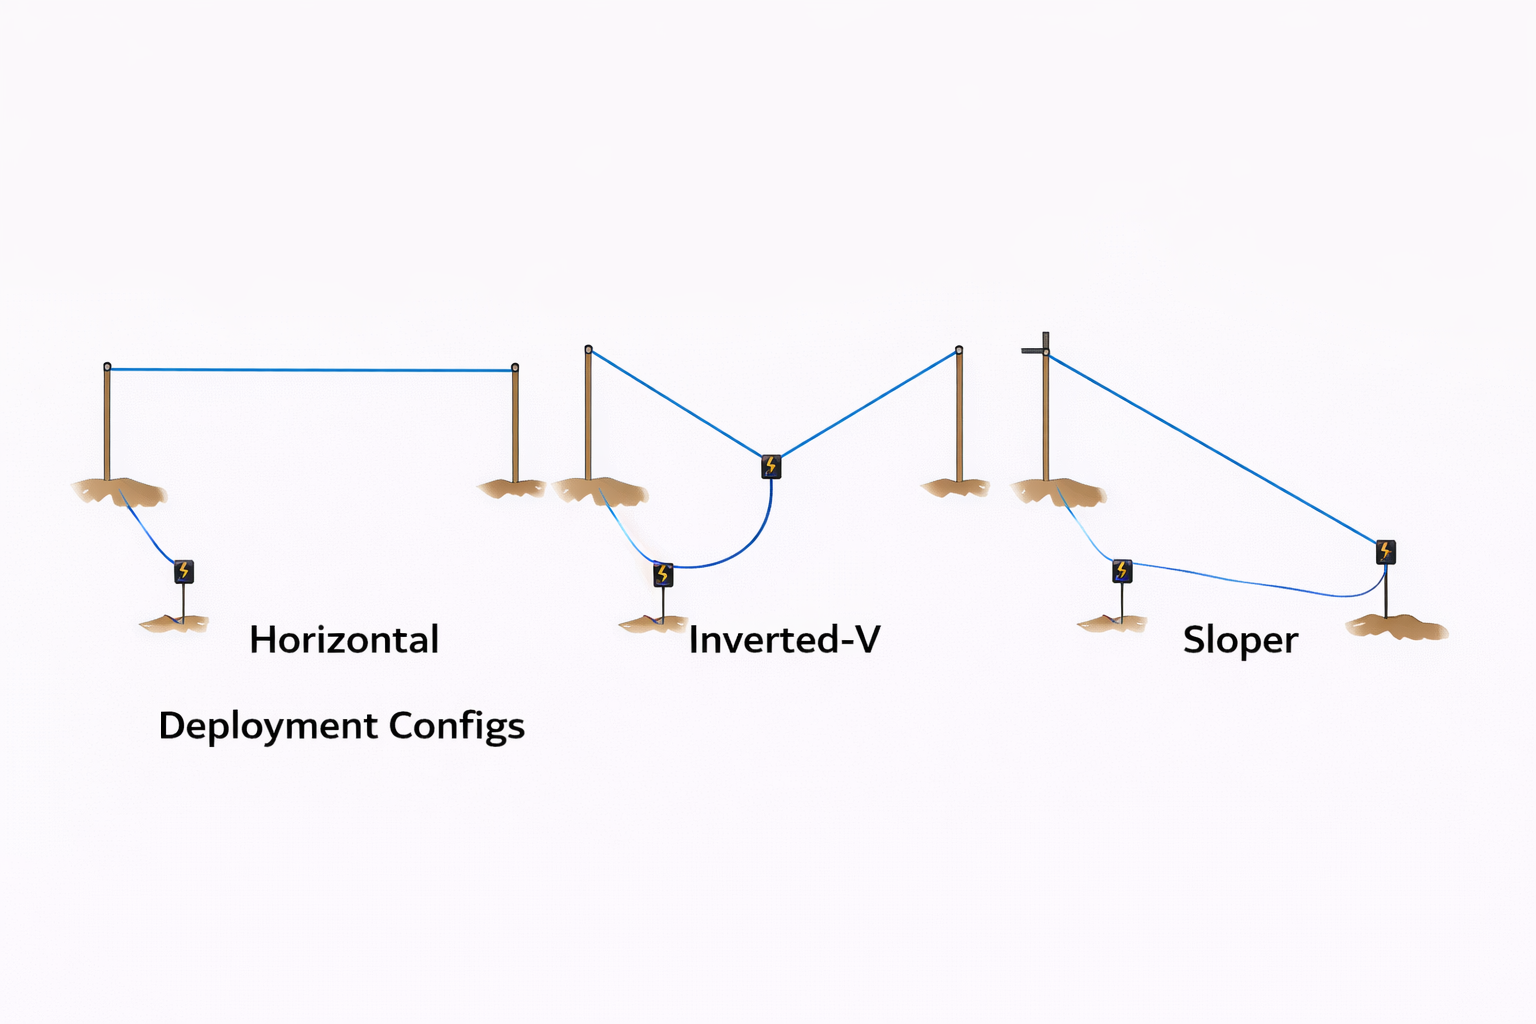
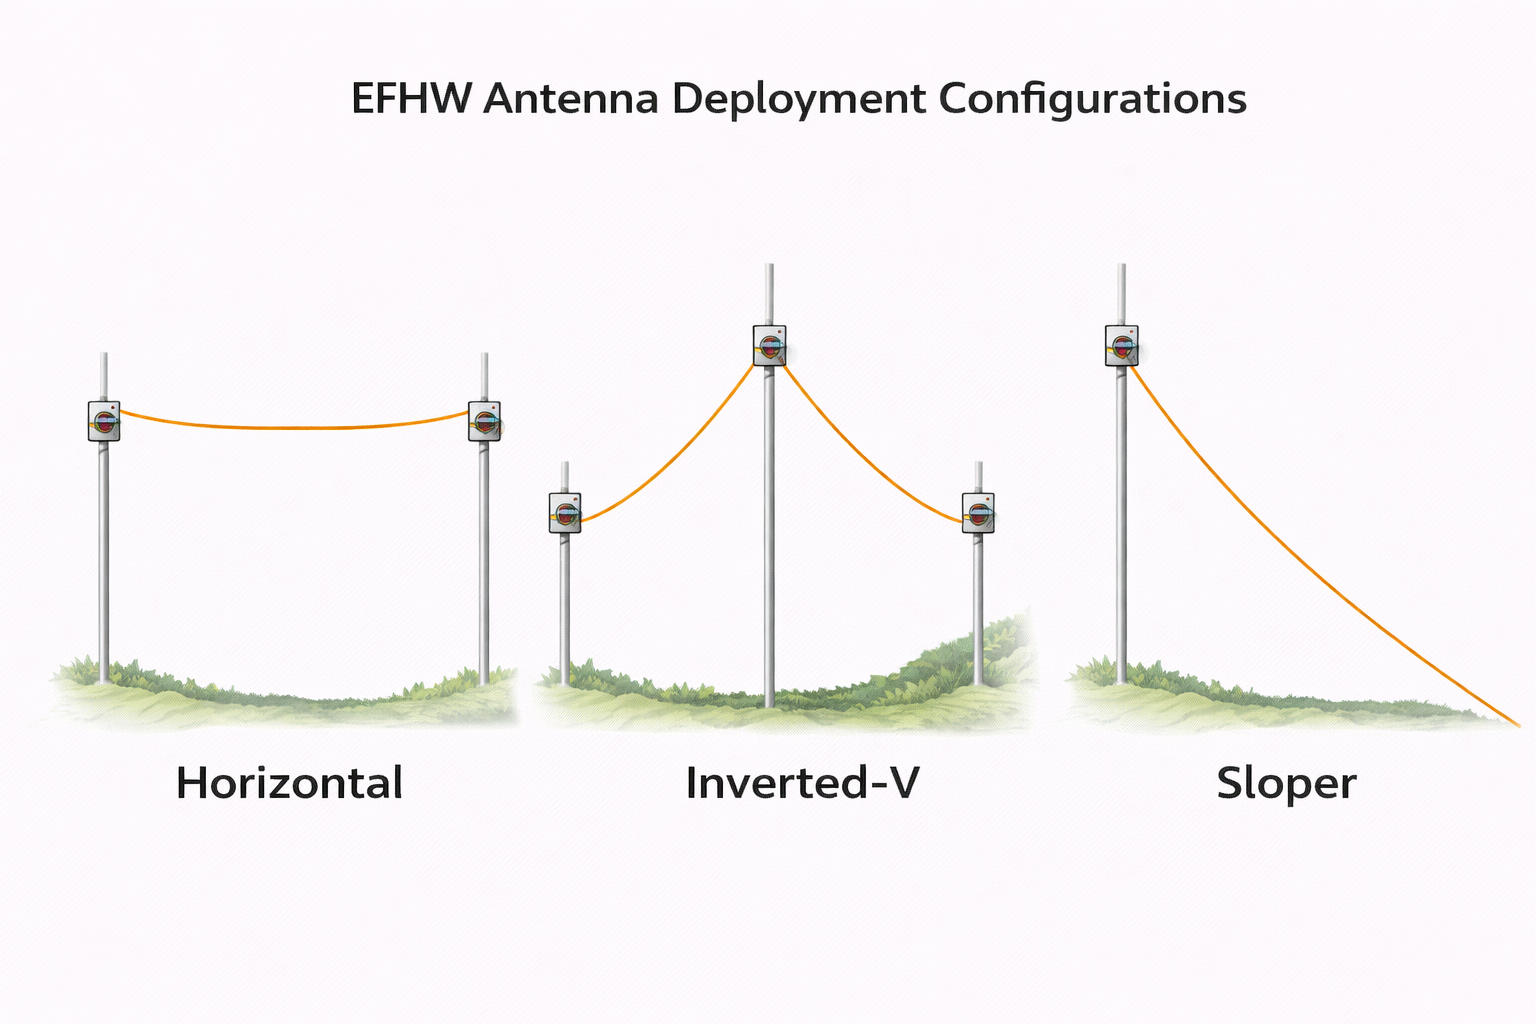
Update EFHW: ATU mention, digital mode unun warning, fix images, compact tables
- Add ATU usage note after SWR asymmetry explanation
- Add under-powered unun overheating warning for digital modes (FT8/JS8)
- Fix D-efhw-harmonics.png (corrected 2nd harmonic lobe count)
- Fix D-efhw-configs.png (updated deployment diagram)
- Fix filename space in D-efhw-configs.png
- Add table-compact CSS class for wide tables
- Apply compact styling to Configuration Comparison and Similar Types tables

diff --git a/frontend/pages/antennas/efhw.html b/frontend/pages/antennas/efhw.html
@@ -481,6 +481,17 @@ figcaption {
 .pros-cons__list li strong { color: var(--text-primary); }
 
 /* ============================================================
+   COMPACT TABLE (for wide tables that would otherwise scroll)
+   ============================================================ */
+.table-compact table {
+  font-size: 0.82rem;
+}
+.table-compact th,
+.table-compact td {
+  padding: 8px 10px;
+}
+
+/* ============================================================
    TUNING PROCEDURE (NUMBERED STEPS)
    ============================================================ */
 .steps-list {
@@ -779,9 +790,9 @@ L = 20.07 metres</code></pre>
 
     <p>The EFHW has moderate bandwidth on each band — typically narrower than a centre-fed dipole because the high-impedance feed point amplifies small reactance changes. Expect an SWR &lt; 2:1 window of roughly 100–200 kHz on 40 m, widening to 400–600 kHz on 10 m (bandwidth scales with frequency).</p>
 
-    <p>The SWR curve is asymmetric: it rises more steeply above resonance than below. This means if you need to choose, cut the wire slightly long — it's easier to trim wire shorter than to add it back.</p>
+    <p>The SWR curve is asymmetric: it rises more steeply above resonance than below. This means if you need to choose, cut the wire slightly long — it's easier to trim wire shorter than to add it back. Many modern transceivers include a built-in ATU (antenna tuning unit) that can compensate for moderate SWR — typically up to 3:1. If your radio lacks one, a small external ATU between the transceiver and coax will extend the usable bandwidth on each band and cover the non-harmonic WARC bands.</p>
 
-    <p>The unun itself has a frequency-dependent loss profile. A well-wound 49:1 on a Fair-Rite #43 or #61 mix toroid will show lowest loss on 20 m and 15 m, with higher losses at the band edges (40 m low end, 10 m high end). Cheap ununs on unsuitable cores are the single biggest source of EFHW performance complaints.</p>
+    <p>The unun itself has a frequency-dependent loss profile. A well-wound 49:1 on a Fair-Rite #43 or #61 mix toroid will show lowest loss on 20 m and 15 m, with higher losses at the band edges (40 m low end, 10 m high end). Cheap ununs on unsuitable cores are the single biggest source of EFHW performance complaints. Under-rated ununs are the second — a core sized for 100 W SSB will overheat rapidly on digital modes (FT8, JS8Call) where the duty cycle is near 100%. Digital operation at 50 W can stress a unun harder than SSB at 100 W. If you run digital modes, size the core for at least double your expected power.</p>
 
     <div class="xref-callout">
       <span class="xref-label">See also</span>
@@ -947,7 +958,7 @@ L = 20.07 metres</code></pre>
   <!-- CONFIGURATION COMPARISON -->
   <div class="content-section" id="config-comparison">
     <h2>Configuration Comparison</h2>
-    <div class="table-wrapper">
+    <div class="table-wrapper table-compact">
       <table>
         <thead>
           <tr><th>Configuration</th><th>Pattern (fundamental)</th><th>Peak Gain</th><th>DX Performance</th><th>Supports Needed</th><th>Best For</th></tr>
@@ -1224,7 +1235,7 @@ L = 20.07 metres</code></pre>
   <div class="content-section" id="comparison">
     <h2>Comparison with Similar Types</h2>
 
-    <div class="table-wrapper">
+    <div class="table-wrapper table-compact">
       <table>
         <thead>
           <tr><th>Feature</th><th>EFHW</th><th>Centre-Fed Dipole</th><th>Random Wire + Tuner</th><th>Vertical (λ/4)</th></tr>

diff --git a/content/antenna-reference/efhw.md b/content/antenna-reference/efhw.md
@@ -119,9 +119,9 @@ This wire is also resonant at:
 
 The EFHW has moderate bandwidth on each band — typically narrower than a centre-fed dipole because the high-impedance feed point amplifies small reactance changes. Expect an SWR < 2:1 window of roughly 100–200 kHz on 40 m, widening to 400–600 kHz on 10 m (bandwidth scales with frequency).
 
-The SWR curve is asymmetric: it rises more steeply above resonance than below. This means if you need to choose, cut the wire slightly long — it's easier to trim wire shorter than to add it back.
+The SWR curve is asymmetric: it rises more steeply above resonance than below. This means if you need to choose, cut the wire slightly long — it's easier to trim wire shorter than to add it back. Many modern transceivers include a built-in ATU (antenna tuning unit) that can compensate for moderate SWR — typically up to 3:1. If your radio lacks one, a small external ATU between the transceiver and coax will extend the usable bandwidth on each band and cover the non-harmonic WARC bands.
 
-The unun itself has a frequency-dependent loss profile. A well-wound 49:1 on a Fair-Rite #43 or #61 mix toroid will show lowest loss on 20 m and 15 m, with higher losses at the band edges (40 m low end, 10 m high end). Cheap ununs on unsuitable cores are the single biggest source of EFHW performance complaints.
+The unun itself has a frequency-dependent loss profile. A well-wound 49:1 on a Fair-Rite #43 or #61 mix toroid will show lowest loss on 20 m and 15 m, with higher losses at the band edges (40 m low end, 10 m high end). Cheap ununs on unsuitable cores are the single biggest source of EFHW performance complaints. Under-rated ununs are the second — a core sized for 100 W SSB will overheat rapidly on digital modes (FT8, JS8Call) where the duty cycle is near 100%. Digital operation at 50 W can stress a unun harder than SSB at 100 W. If you run digital modes, size the core for at least double your expected power.
 
 <!-- XREF: curriculum L06 "Impedance" — for a full explanation of impedance, reactance, and SWR -->
 
